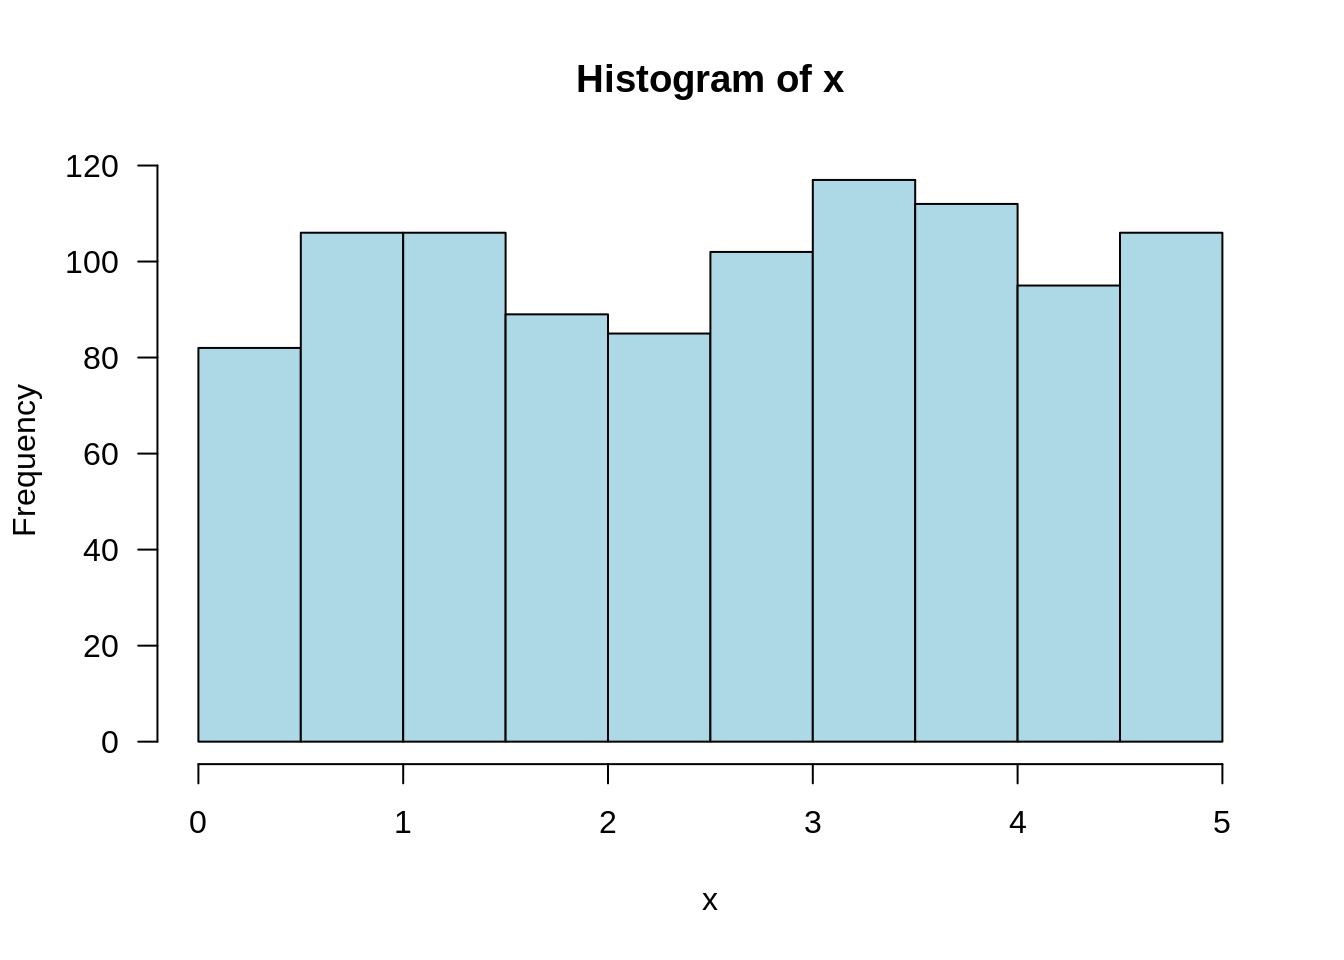
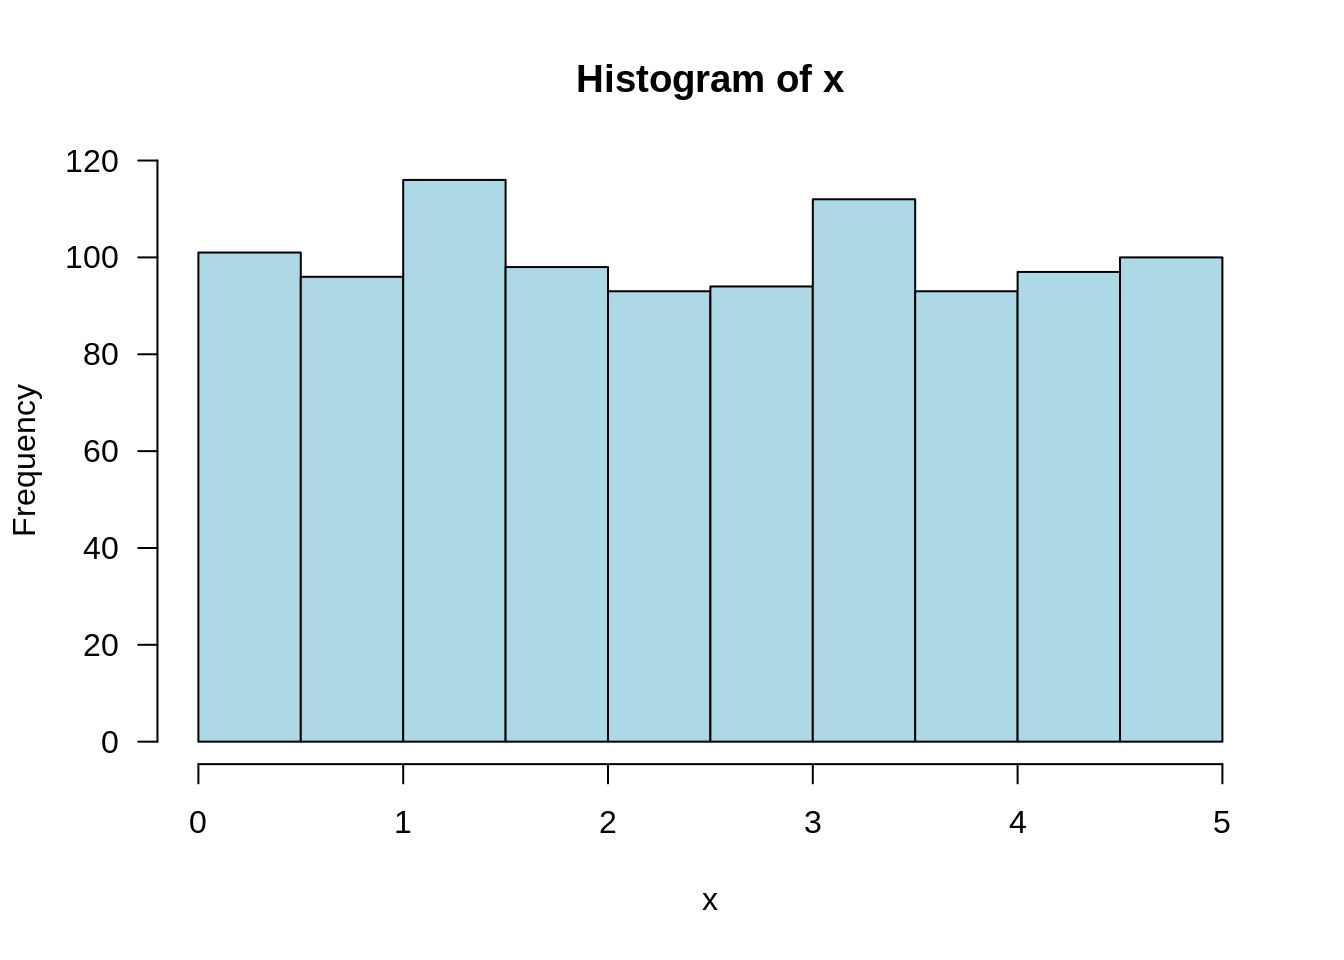
Deploying to gh-pages from @ jtr13/1201@d17ab18553e888b2fc4950e275466239653ff4aa 🚀

diff --git a/ch.-4-continuous-random-variables-and-probability-distributions.html b/ch.-4-continuous-random-variables-and-probability-distributions.html
@@ -82,12 +82,12 @@
 <p><span class="math inline">\(f(x) = .2\)</span> for <span class="math inline">\(0 \leq x \leq 5\)</span>, 0 otherwise.</p>
 <div class="sourceCode" id="cb158"><pre class="downlit sourceCode r">
 <code class="sourceCode R"><span class="fu"><a href="https://rdrr.io/r/stats/Uniform.html">runif</a></span><span class="op">(</span>n <span class="op">=</span> <span class="fl">1</span>, min <span class="op">=</span> <span class="fl">0</span>, max <span class="op">=</span> <span class="fl">5</span><span class="op">)</span></code></pre></div>
-<pre><code>## [1] 1.618105</code></pre>
+<pre><code>## [1] 3.133868</code></pre>
 <p>Take the average of 1000 picks:</p>
 <div class="sourceCode" id="cb160"><pre class="downlit sourceCode r">
 <code class="sourceCode R"><span class="va">x</span> <span class="op">&lt;-</span> <span class="fu"><a href="https://rdrr.io/r/stats/Uniform.html">runif</a></span><span class="op">(</span>n <span class="op">=</span> <span class="fl">1000</span>, min <span class="op">=</span> <span class="fl">0</span>, max <span class="op">=</span> <span class="fl">5</span><span class="op">)</span>
 <span class="fu"><a href="https://rdrr.io/r/base/mean.html">mean</a></span><span class="op">(</span><span class="va">x</span><span class="op">)</span></code></pre></div>
-<pre><code>## [1] 2.569979</code></pre>
+<pre><code>## [1] 2.477765</code></pre>
 <p>Draw a histogram of the 1000 picks:</p>
 <div class="sourceCode" id="cb162"><pre class="downlit sourceCode r">
 <code class="sourceCode R"><span class="fu"><a href="https://rdrr.io/r/graphics/hist.html">hist</a></span><span class="op">(</span><span class="va">x</span>, las <span class="op">=</span> <span class="fl">1</span>, col <span class="op">=</span> <span class="st">"lightblue"</span><span class="op">)</span></code></pre></div>
@@ -257,8 +257,8 @@ aid, sothat <em>p = .25</em>. What is the probability that at most 10 students r
 
       <div class="book-extra">
         <ul class="list-unstyled">
-<li><a id="book-source" href="https://github.com/jtr13/1201/blob/master/Chapter4.Rmd">View source <i class="fab fa-github"></i></a></li>
-          <li><a id="book-edit" href="https://github.com/jtr13/1201/edit/master/Chapter4.Rmd">Edit this page <i class="fab fa-github"></i></a></li>
+<li><a id="book-source" href="https://github.com/jtr13/1201/blob/main/Chapter4.Rmd">View source <i class="fab fa-github"></i></a></li>
+          <li><a id="book-edit" href="https://github.com/jtr13/1201/edit/main/Chapter4.Rmd">Edit this page <i class="fab fa-github"></i></a></li>
         </ul>
 </div>
     </nav>

diff --git a/ch.-1-descriptive-statistics.html b/ch.-1-descriptive-statistics.html
@@ -77,12 +77,12 @@
 <p><strong>Ex:</strong> To generate a sample of 6 numbers from the integers between 1 and 20:</p>
 <div class="sourceCode" id="cb26"><pre class="downlit sourceCode r">
 <code class="sourceCode R"><span class="fu"><a href="https://rdrr.io/r/base/sample.html">sample</a></span><span class="op">(</span>x <span class="op">=</span> <span class="fl">1</span><span class="op">:</span><span class="fl">20</span>, size  <span class="op">=</span> <span class="fl">6</span><span class="op">)</span></code></pre></div>
-<pre><code>## [1]  4 10 11  2  1  8</code></pre>
+<pre><code>## [1]  5 15 14  3 17  8</code></pre>
 <p>Note: this syntax assumes that there is no replacement (it won’t pick the same number twice).
 If you want to sample <em>with</em> replacement use the following:</p>
 <div class="sourceCode" id="cb28"><pre class="downlit sourceCode r">
 <code class="sourceCode R"><span class="fu"><a href="https://rdrr.io/r/base/sample.html">sample</a></span><span class="op">(</span>x <span class="op">=</span> <span class="fl">1</span><span class="op">:</span><span class="fl">20</span>, size <span class="op">=</span> <span class="fl">8</span>, replace <span class="op">=</span> <span class="cn">TRUE</span><span class="op">)</span></code></pre></div>
-<pre><code>## [1]  6  9 17  1 15 10 20  3</code></pre>
+<pre><code>## [1]  8  1 14  1 16  3  6 18</code></pre>
 </div>
 <div id="pictorial-and-tabular-methods-in-descriptive-statistics" class="section level2 unnumbered">
 <h2>1.2 Pictorial and Tabular Methods in Descriptive Statistics<a class="anchor" aria-label="anchor" href="#pictorial-and-tabular-methods-in-descriptive-statistics"><i class="fas fa-link"></i></a>
@@ -355,8 +355,8 @@ We use an almost identical syntax to generate density histograms, but add a cond
 
       <div class="book-extra">
         <ul class="list-unstyled">
-<li><a id="book-source" href="https://github.com/jtr13/1201/blob/master/Chapter1.Rmd">View source <i class="fab fa-github"></i></a></li>
-          <li><a id="book-edit" href="https://github.com/jtr13/1201/edit/master/Chapter1.Rmd">Edit this page <i class="fab fa-github"></i></a></li>
+<li><a id="book-source" href="https://github.com/jtr13/1201/blob/main/Chapter1.Rmd">View source <i class="fab fa-github"></i></a></li>
+          <li><a id="book-edit" href="https://github.com/jtr13/1201/edit/main/Chapter1.Rmd">Edit this page <i class="fab fa-github"></i></a></li>
         </ul>
 </div>
     </nav>

diff --git a/ch.-5-joint-probability.html b/ch.-5-joint-probability.html
@@ -135,8 +135,8 @@ Two points are needed to calculate r.
 
       <div class="book-extra">
         <ul class="list-unstyled">
-<li><a id="book-source" href="https://github.com/jtr13/1201/blob/master/Chapter5b.Rmd">View source <i class="fab fa-github"></i></a></li>
-          <li><a id="book-edit" href="https://github.com/jtr13/1201/edit/master/Chapter5b.Rmd">Edit this page <i class="fab fa-github"></i></a></li>
+<li><a id="book-source" href="https://github.com/jtr13/1201/blob/main/Chapter5b.Rmd">View source <i class="fab fa-github"></i></a></li>
+          <li><a id="book-edit" href="https://github.com/jtr13/1201/edit/main/Chapter5b.Rmd">Edit this page <i class="fab fa-github"></i></a></li>
         </ul>
 </div>
     </nav>

diff --git a/ch.-12-linear-regression.html b/ch.-12-linear-regression.html
@@ -280,8 +280,8 @@
 
       <div class="book-extra">
         <ul class="list-unstyled">
-<li><a id="book-source" href="https://github.com/jtr13/1201/blob/master/Chapter12.Rmd">View source <i class="fab fa-github"></i></a></li>
-          <li><a id="book-edit" href="https://github.com/jtr13/1201/edit/master/Chapter12.Rmd">Edit this page <i class="fab fa-github"></i></a></li>
+<li><a id="book-source" href="https://github.com/jtr13/1201/blob/main/Chapter12.Rmd">View source <i class="fab fa-github"></i></a></li>
+          <li><a id="book-edit" href="https://github.com/jtr13/1201/edit/main/Chapter12.Rmd">Edit this page <i class="fab fa-github"></i></a></li>
         </ul>
 </div>
     </nav>

diff --git a/ch.-14-chi-squared-test.html b/ch.-14-chi-squared-test.html
@@ -237,8 +237,8 @@
 
       <div class="book-extra">
         <ul class="list-unstyled">
-<li><a id="book-source" href="https://github.com/jtr13/1201/blob/master/Chapter14.Rmd">View source <i class="fab fa-github"></i></a></li>
-          <li><a id="book-edit" href="https://github.com/jtr13/1201/edit/master/Chapter14.Rmd">Edit this page <i class="fab fa-github"></i></a></li>
+<li><a id="book-source" href="https://github.com/jtr13/1201/blob/main/Chapter14.Rmd">View source <i class="fab fa-github"></i></a></li>
+          <li><a id="book-edit" href="https://github.com/jtr13/1201/edit/main/Chapter14.Rmd">Edit this page <i class="fab fa-github"></i></a></li>
         </ul>
 </div>
     </nav>

diff --git a/ch.-13-nonlinear-and-multiple-regression.html b/ch.-13-nonlinear-and-multiple-regression.html
@@ -92,8 +92,8 @@
 
       <div class="book-extra">
         <ul class="list-unstyled">
-<li><a id="book-source" href="https://github.com/jtr13/1201/blob/master/Chapter13.Rmd">View source <i class="fab fa-github"></i></a></li>
-          <li><a id="book-edit" href="https://github.com/jtr13/1201/edit/master/Chapter13.Rmd">Edit this page <i class="fab fa-github"></i></a></li>
+<li><a id="book-source" href="https://github.com/jtr13/1201/blob/main/Chapter13.Rmd">View source <i class="fab fa-github"></i></a></li>
+          <li><a id="book-edit" href="https://github.com/jtr13/1201/edit/main/Chapter13.Rmd">Edit this page <i class="fab fa-github"></i></a></li>
         </ul>
 </div>
     </nav>

diff --git a/ch.-2-conditional-probability.html b/ch.-2-conditional-probability.html
@@ -94,8 +94,8 @@
 
       <div class="book-extra">
         <ul class="list-unstyled">
-<li><a id="book-source" href="https://github.com/jtr13/1201/blob/master/Chapter2b.Rmd">View source <i class="fab fa-github"></i></a></li>
-          <li><a id="book-edit" href="https://github.com/jtr13/1201/edit/master/Chapter2b.Rmd">Edit this page <i class="fab fa-github"></i></a></li>
+<li><a id="book-source" href="https://github.com/jtr13/1201/blob/main/Chapter2b.Rmd">View source <i class="fab fa-github"></i></a></li>
+          <li><a id="book-edit" href="https://github.com/jtr13/1201/edit/main/Chapter2b.Rmd">Edit this page <i class="fab fa-github"></i></a></li>
         </ul>
 </div>
     </nav>

diff --git a/ch.-2-probability.html b/ch.-2-probability.html
@@ -140,8 +140,8 @@
 
       <div class="book-extra">
         <ul class="list-unstyled">
-<li><a id="book-source" href="https://github.com/jtr13/1201/blob/master/Chapter2.Rmd">View source <i class="fab fa-github"></i></a></li>
-          <li><a id="book-edit" href="https://github.com/jtr13/1201/edit/master/Chapter2.Rmd">Edit this page <i class="fab fa-github"></i></a></li>
+<li><a id="book-source" href="https://github.com/jtr13/1201/blob/main/Chapter2.Rmd">View source <i class="fab fa-github"></i></a></li>
+          <li><a id="book-edit" href="https://github.com/jtr13/1201/edit/main/Chapter2.Rmd">Edit this page <i class="fab fa-github"></i></a></li>
         </ul>
 </div>
     </nav>

diff --git a/ch.-3-discrete-distributions.html b/ch.-3-discrete-distributions.html
@@ -352,8 +352,8 @@
 
       <div class="book-extra">
         <ul class="list-unstyled">
-<li><a id="book-source" href="https://github.com/jtr13/1201/blob/master/Chapter3.Rmd">View source <i class="fab fa-github"></i></a></li>
-          <li><a id="book-edit" href="https://github.com/jtr13/1201/edit/master/Chapter3.Rmd">Edit this page <i class="fab fa-github"></i></a></li>
+<li><a id="book-source" href="https://github.com/jtr13/1201/blob/main/Chapter3.Rmd">View source <i class="fab fa-github"></i></a></li>
+          <li><a id="book-edit" href="https://github.com/jtr13/1201/edit/main/Chapter3.Rmd">Edit this page <i class="fab fa-github"></i></a></li>
         </ul>
 </div>
     </nav>

diff --git a/ch.-7-statistical-intervals-based-on-a-single-sample.html b/ch.-7-statistical-intervals-based-on-a-single-sample.html
@@ -106,8 +106,8 @@
 
       <div class="book-extra">
         <ul class="list-unstyled">
-<li><a id="book-source" href="https://github.com/jtr13/1201/blob/master/Chapter7.Rmd">View source <i class="fab fa-github"></i></a></li>
-          <li><a id="book-edit" href="https://github.com/jtr13/1201/edit/master/Chapter7.Rmd">Edit this page <i class="fab fa-github"></i></a></li>
+<li><a id="book-source" href="https://github.com/jtr13/1201/blob/main/Chapter7.Rmd">View source <i class="fab fa-github"></i></a></li>
+          <li><a id="book-edit" href="https://github.com/jtr13/1201/edit/main/Chapter7.Rmd">Edit this page <i class="fab fa-github"></i></a></li>
         </ul>
 </div>
     </nav>

diff --git a/ch.-8-tests-of-hypotheses-based-on-a-single-sample.html b/ch.-8-tests-of-hypotheses-based-on-a-single-sample.html
@@ -164,8 +164,8 @@
 
       <div class="book-extra">
         <ul class="list-unstyled">
-<li><a id="book-source" href="https://github.com/jtr13/1201/blob/master/Chapter8.Rmd">View source <i class="fab fa-github"></i></a></li>
-          <li><a id="book-edit" href="https://github.com/jtr13/1201/edit/master/Chapter8.Rmd">Edit this page <i class="fab fa-github"></i></a></li>
+<li><a id="book-source" href="https://github.com/jtr13/1201/blob/main/Chapter8.Rmd">View source <i class="fab fa-github"></i></a></li>
+          <li><a id="book-edit" href="https://github.com/jtr13/1201/edit/main/Chapter8.Rmd">Edit this page <i class="fab fa-github"></i></a></li>
         </ul>
 </div>
     </nav>

diff --git a/ch.-9-inferences-based-on-two-samples.html b/ch.-9-inferences-based-on-two-samples.html
@@ -231,8 +231,8 @@
 
       <div class="book-extra">
         <ul class="list-unstyled">
-<li><a id="book-source" href="https://github.com/jtr13/1201/blob/master/Chapter9.Rmd">View source <i class="fab fa-github"></i></a></li>
-          <li><a id="book-edit" href="https://github.com/jtr13/1201/edit/master/Chapter9.Rmd">Edit this page <i class="fab fa-github"></i></a></li>
+<li><a id="book-source" href="https://github.com/jtr13/1201/blob/main/Chapter9.Rmd">View source <i class="fab fa-github"></i></a></li>
+          <li><a id="book-edit" href="https://github.com/jtr13/1201/edit/main/Chapter9.Rmd">Edit this page <i class="fab fa-github"></i></a></li>
         </ul>
 </div>
     </nav>
